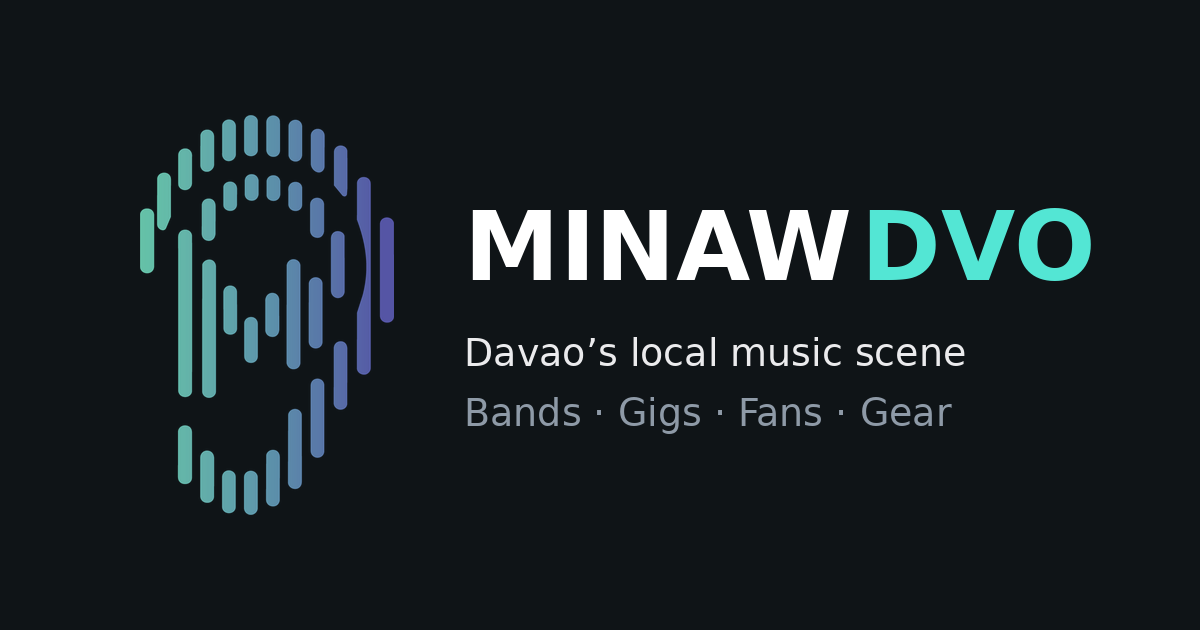
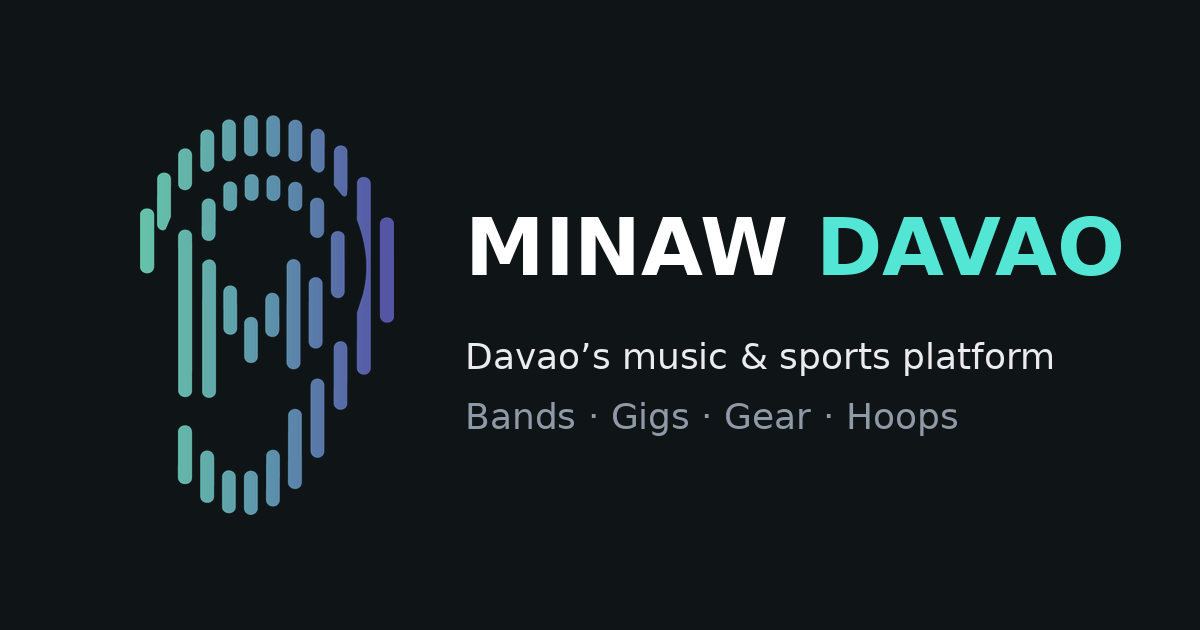
Add files via upload

Changed region(s): [[0.37, 0.3317, 0.9558, 0.4524], [0.37, 0.5429, 0.8942, 0.6032], [0.37, 0.6333, 0.8017, 0.6937]]

diff --git a/index.html b/index.html
@@ -3,7 +3,7 @@
   <head>
     <meta charset="UTF-8" />
     <meta name="viewport" content="width=device-width, initial-scale=1.0" />
-    <title>MINAW DVO - Davao Music & Live Scene</title>
+    <title>MINAW DAVAO - Davao Music & Sports Platform</title>
     <link rel="icon" type="image/png" sizes="32x32" href="/favicon-32.png" />
     <link rel="icon" type="image/png" sizes="16x16" href="/favicon-16.png" />
     <link rel="apple-touch-icon" href="/apple-touch-icon.png" />
@@ -11,11 +11,11 @@
     <meta name="theme-color" content="#0F1417" />
     <meta name="mobile-web-app-capable" content="yes" />
     <meta name="apple-mobile-web-app-capable" content="yes" />
-    <meta name="apple-mobile-web-app-title" content="MINAW DVO" />
+    <meta name="apple-mobile-web-app-title" content="MINAW DAVAO" />
     <meta name="apple-mobile-web-app-status-bar-style" content="black" />
-    <meta name="description" content="MINAW DVO - A modern Davaoeño music and band platform for artists, fans, local gig discovery, and gear marketplace in Davao City." />
-    <meta property="og:title" content="MINAW DVO - Davao Music & Live Scene" />
-    <meta property="og:description" content="MINAW DVO - A modern Davaoeño music and band platform for artists, fans, local gig discovery, and gear marketplace in Davao City." />
+    <meta name="description" content="MINAW DAVAO - Davao City’s music and sports platform: bands, gigs, local music, a gear marketplace, and pickup basketball." />
+    <meta property="og:title" content="MINAW DAVAO - Davao Music & Sports Platform" />
+    <meta property="og:description" content="MINAW DAVAO - Davao City’s music and sports platform: bands, gigs, local music, a gear marketplace, and pickup basketball." />
     <meta property="og:type" content="website" />
     <meta property="og:url" content="https://minawdavao.com/" />
     <meta property="og:image" content="https://minawdavao.com/og-image.png" />

diff --git a/public/sw.js b/public/sw.js
@@ -1,4 +1,4 @@
-/* MINAW DVO service worker: lets phones install the app, and shows the last good app page when offline.
+/* MINAW DAVAO service worker: lets phones install the app, and shows the last good app page when offline.
    Everything else (code files, Supabase data, music, images) goes straight to the network as normal. */
 const CACHE = 'minaw-shell-v2';
 

diff --git a/README.md b/README.md
@@ -1,4 +1,4 @@
-# MINAW DVO — Davao Music & Live Scene
+# MINAW DAVAO — Davao Music & Live Scene
 
 A mobile-first music platform for Davao City and Southern Mindanao: discover local bands, stream their music, find gigs, connect with fans, and buy, sell or trade gear.
 
@@ -38,7 +38,7 @@ Phone screens (390 px wide) designed on the Claude Design canvas. They are the t
 | File | Screen |
 | --- | --- |
 | `Main.dc.html` | Home — featured bands, Top 10, sponsored deals, upcoming gigs |
-| `Audio.dc.html` | Audio & Bands — search, genre filter, DVO Scene Radio, Top 10 |
+| `Audio.dc.html` | Audio & Bands — search, genre filter, Davao Scene Radio, Top 10 |
 | `BandProfile.dc.html` | Band page with Edit Profile and artist profile menu (Log Out) |
 | `Connect.dc.html` | Community feed with a **Report** button on every post |
 | `FanProfile.dc.html` | Fan profile with Edit Profile and profile menu (Log Out) |
